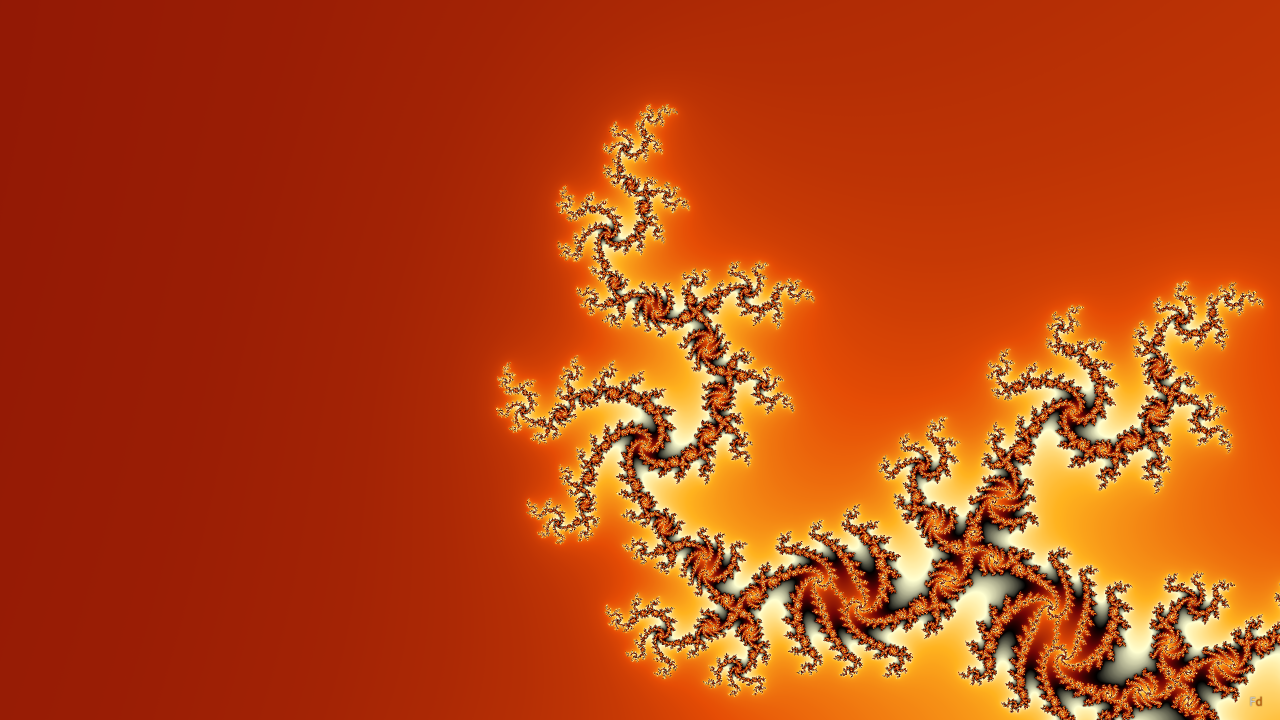
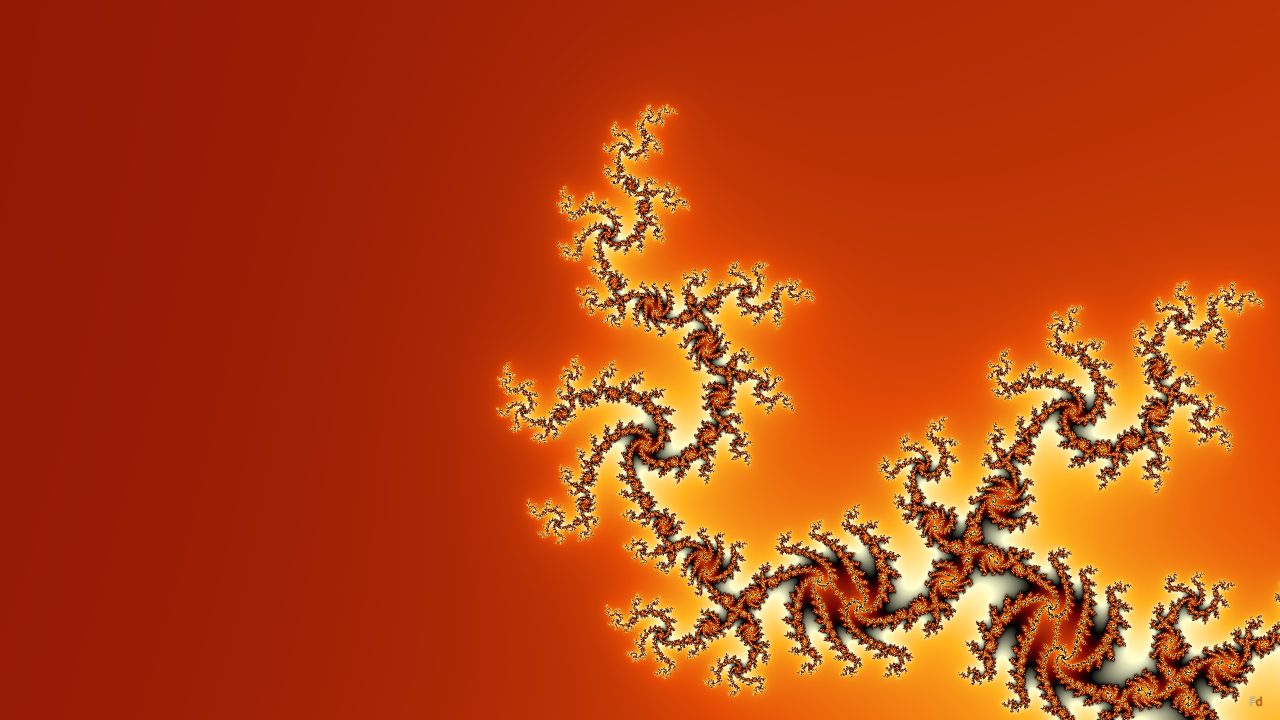
v0.2.18: BLA-landing rebase — fixes corpus 15's missing deep dendrites
Loc 15 (3.7e163x) rendered its right-side dendrites as smooth-orange where
Fraktaler-3 shows dense dark spirals. Those pixels escape at 928k-1.6M -- PAST
the reference orbit (~918k) -- so they must rebase at the reference's near-zero
orbit dips (|Z|~1e-71 every 4383 iters). The GPU's BLA-skip path (mandelbrot.wgsl
mode-2 loop) never checked for a Zhuoran rebase after a skip, on the assumption
"delta z stays small in the BLA regime => rebasing never triggers here". That
assumption FAILS when a skip lands on a dip: |Z_nref|~=0 => |zfull|~=|delta z|, so
the rebase condition |zfull| < |delta z| holds. Without the check the deep pixels
marched to the reference END and escaped prematurely there (measured GPU escape
range [885961, 918967], interior=0, where 918967 ~= the reference length).

Fix: after applying a BLA skip, compute zfull = Z_nref + delta z and rebase to
index 0 if |zfull| < |delta z| (mirrors the full-step rebase). Escape range
restored to [886019, 1599783], interior 70/57600; the dendrites render and match
F3. Loc 14 unchanged. Goldens 17/17 byte-identical + selftest 63/63 (the rebase
only fires at dip landings -- deep-interior views -- never on the normal goldens).

Diagnosis (disciplined, sim as oracle): ruled OUT the rebase magnitude precision
(a df32/sf_lt-faithful probe_fe variant still reached 1.29M -- the 24-bit compare
was not the bug), SA (off) and glitch (off in the export path), leaving BLA as the
[…]

Changed region(s): [[0.4062, 0.1833, 1.0, 1.0], [0.8125, 0.4278, 0.8438, 0.4889]]

diff --git a/validation/corpus/catalog.html b/validation/corpus/catalog.html
@@ -26,27 +26,25 @@ center / magnification / iteration cap for side-by-side structural comparison. F
 twenty) come from <code>generate_corpus.py</code>; the Fraktaler-3 side from <code>generate_fraktaler.py</code>.
 With <code>maximum_reference_iterations</code> set in each F3 param (see README &mdash; F3&rsquo;s batch
 default is far too low for a zoomed view and blanks silently, which long masqueraded as a ~1e13&times;
-ceiling), <strong>F3 renders deep correctly here</strong>: <strong>19 of 20</strong> locations have
-clean, arm-for-arm F3 counterparts, out to 4.60e1105&times; (over a thousand orders of magnitude)
-(location 15 is a known partial &mdash; see the note below). The
+ceiling), <strong>F3 renders deep correctly here</strong>: <strong>all 20</strong> locations have
+clean, arm-for-arm F3 counterparts, out to 4.60e1105&times; (over a thousand orders of magnitude). The
 former 1e30&times; gap (location 07, once a too-coarse 34-digit seahorse placeholder that F3 rounded onto
 different sub-structure) is now a genuine cross-app match, re-imported from a user Fraktaler-3 save with a
 43-digit center. Locations 07 and 11&ndash;20 are user-saved Fraktaler-3 finds (7.5e29&times; to
 1.2e1008&times;), imported from their .exr headers with center, zoom, and iteration count taken verbatim.
-<strong>Coloring note for 14 (1.2e148&times;):</strong> this long rendered as speckle and was
-mis-diagnosed as glitches, then a perturbation bug &mdash; both wrong. The escape VALUES are correct
-(a faithful CPU transcription of the mode-2 shader kernel reproduces them exactly); the problem is
-that its smooth-iter counts are huge (~3e5&ndash;8e5) and vary steeply, so the fixed palette cycle
-(0.27) aliases a correct field into speckle. Location 14&rsquo;s render uses <em>auto-normalized</em>
-coloring (the frame's escape range mapped to the palette) and then matches F3 arm-for-arm. The general
+<strong>Coloring note for 14 (1.2e148&times;) and 15 (3.7e163&times;):</strong> these long rendered as
+speckle and were mis-diagnosed as glitches, then a perturbation bug &mdash; both wrong. The escape
+VALUES are correct (a faithful CPU transcription of the mode-2 shader kernel reproduces them exactly);
+the problem is that their smooth-iter counts are huge (~3e5&ndash;1.6e6) and vary steeply, so the fixed
+palette cycle (0.27) aliases a correct field into speckle. Their renders use <em>auto-normalized</em>
+coloring (the frame's escape range mapped to the palette) and then match F3 arm-for-arm. The general
 fix &mdash; an adaptive-cycle coloring mode for extreme depth &mdash; is in TODO.md.
-<strong>Known limit at 15 (3.7e163&times;):</strong> the smooth bulb matches F3, but the right-side
-dendrites are MISSING (smooth-orange where F3 shows dense dark spirals). Those pixels escape at
-928k&ndash;1.6M &mdash; <em>past</em> the reference orbit (which escapes at ~918k) &mdash; so the GPU
-caps them at the reference&rsquo;s end (~919k) instead of rebasing deeper. The faithful CPU df32 sim
-recovers the dendrites with that same reference (by rebasing), so it is a GPU past-reference rebasing
-limitation, not coloring or iteration count; a longer reference would fix it but overflows the GPU
-128&nbsp;MB buffer-binding limit (~932k samples). Tracked in TODO.md &ldquo;Open bugs&rdquo;.</p>
+<strong>15 also needed a rendering fix (v0.2.18):</strong> its right-side dendrites escape at
+928k&ndash;1.6M &mdash; <em>past</em> the reference orbit (~918k) &mdash; so they must rebase at the
+reference&rsquo;s near-zero orbit dips. The GPU&rsquo;s BLA-skip path was skipping those dips without a
+rebase check (it assumed &delta;z stays small in the BLA regime, which fails where |Z|&asymp;0),
+marching the deep pixels to the reference end and capping them at ~919k so the dendrites vanished. A
+rebase check at the BLA landing restored the full range; goldens stayed byte-identical.</p>
 <p><strong>Reading the comparison:</strong> palettes and smooth-coloring curves differ between the apps by
 design &mdash; compare <em>structure</em> (feature placement, spiral arm counts, escape-boundary shape,
 minibrot positions), not colors. Framing note: Fractadyne&rsquo;s magnification is referenced to a
@@ -403,7 +401,7 @@ Iterations: 800000</pre>
 
 <section class="card" id="15-deep-3.7e163">
   <h2>Extreme depth 3.74e163x <span class="zoom">3.735181e163&times;</span></h2>
-  <p class="note">User-saved Fraktaler-3 location (me163.exr); 175-digit center. KNOWN PARTIAL at this depth: the smooth bulb (left) matches F3, but the right-side dendrites are MISSING (our render is smooth-orange where F3 shows dense dark spiral dendrites). Root cause (2026-07-12): those dendrite pixels escape at 928k-1.6M, PAST the reference orbit (which escapes at ~918k), so on the GPU they hit the reference's end and escape prematurely there (measured GPU escape range 886k-919k, interior=0) instead of rebasing deeper. The faithful CPU df32 sim reproduces the dendrites with that SAME ~918k reference (by rebasing to 1.6M), so the escape VALUES are computable in df32 -- it is a GPU past-reference rebasing limitation, NOT coloring and NOT iteration count (1.6M is enough). A longer/interior reference WOULD cover them but overflows the GPU max-buffer-binding limit (128MB / ~932k samples at 144 B/sample); the hill-climb finds a 1.54M interior ref that panics on bind. Unlike loc 14, whose deepest pixels escape WITHIN the reference and so render correctly. --normalize is still applied (helps the bulb). See TODO 'Open bugs' and loc 14's note.</p>
+  <p class="note">User-saved Fraktaler-3 location (me163.exr); 175-digit center. Renders CORRECTLY (matches F3): smooth bulb on the left, dense spiral dendrites on the right. FIXED v0.2.18 (BLA-landing rebase): the dendrite pixels escape at 928k-1.6M, PAST the reference orbit (~918k), so they must rebase at the reference's near-zero orbit dips; the GPU's BLA-skip path was skipping those dips without the Zhuoran rebase check (it assumed |delta z| stays small in the BLA regime, which fails at a dip where |Z|~=0), marching the deep pixels to the reference end and capping them at ~919k. Adding a rebase check at the BLA landing (mandelbrot.wgsl) restored the full escape range (measured 886k-1.6M, interior&gt;0). Diagnosed with a faithful CPU df32 sim (probe_fe) that reproduced the correct escape values with the same reference, isolating BLA as the divergence. Rendered with --normalize (escape range -&gt; palette). See TODO and loc 14's note.</p>
   <div class="pair">
     <figure>
       <img src="renders/15-deep-3.7e163-fractadyne.png" alt="Fractadyne render">

diff --git a/crates/fractadyne-core/tests/probe_fe.rs b/crates/fractadyne-core/tests/probe_fe.rs
@@ -20,6 +20,7 @@ trait Flt:
     fn maxv(self, o: Self) -> Self;
     fn ldx(self, e: i32) -> Self; // self * 2^e (exact power of two)
     fn flog2v(self) -> i32; // floor(log2(|self|)); very-negative for 0
+    fn sqrtv(self) -> Self; // sqrt at this precision (mirrors the shader's f32 sqrt)
 }
 impl Flt for f32 {
     fn cv(x: f64) -> f32 { x as f32 }
@@ -28,6 +29,7 @@ impl Flt for f32 {
     fn absv(self) -> f32 { self.abs() }
     fn maxv(self, o: f32) -> f32 { self.max(o) }
     fn ldx(self, e: i32) -> f32 { self * 2f32.powi(e) }
+    fn sqrtv(self) -> f32 { self.sqrt() }
     fn flog2v(self) -> i32 {
         let m = self.abs();
         if m == 0.0 || !m.is_finite() { return -1_000_000; }
@@ -52,6 +54,7 @@ impl Flt for f64 {
         if ef == 0 { return (m * 9_007_199_254_740_992.0).flog2v() - 53; } // subnormal -> *2^53
         ef - 1023
     }
+    fn sqrtv(self) -> f64 { self.sqrt() }
 }
 
 // GPU f32 with SUBNORMAL FLUSH (FTZ): most GPUs flush |x| < 2^-126 to zero on every op. IEEE
@@ -71,6 +74,7 @@ impl Flt for Ftz {
     fn maxv(self, o: Ftz) -> Ftz { Ftz(self.0.max(o.0)) }
     fn ldx(self, e: i32) -> Ftz { Ftz(ftz(self.0 * 2f32.powi(e))) }
     fn flog2v(self) -> i32 { self.0.flog2v() }
+    fn sqrtv(self) -> Ftz { Ftz(ftz(self.0.sqrt())) }
 }
 // GPU f32 with a NON-FUSED FMA: if the driver/compiler does not fuse `a*b+c` (or contracts it
 // wrong), two_prod's error term collapses to 0 and the df32 mul loses ~24 bits. Everything else
@@ -89,6 +93,7 @@ impl Flt for Nf {
     fn maxv(self, o: Nf) -> Nf { Nf(self.0.max(o.0)) }
     fn ldx(self, e: i32) -> Nf { Nf(self.0 * 2f32.powi(e)) }
     fn flog2v(self) -> i32 { self.0.flog2v() }
+    fn sqrtv(self) -> Nf { Nf(self.0.sqrt()) }
 }
 #[derive(Clone, Copy)]
 struct Df<F: Flt>(F, F);
@@ -157,6 +162,22 @@ fn flog2_fe<F: Flt>(a: Fe<F>) -> f64 {
     if mag == 0.0 { return f64::NEG_INFINITY; }
     mag.log2() + a.e as f64
 }
+// Shader-faithful |a| (mirrors `fe_abs_sf`): sqrt(re.hi² + im.hi²) as a SINGLE F (only ~24-bit
+// precision for f32), normalized to a (mantissa∈[1,2), exp) scalar floatexp. This is the crux of the
+// GPU/sim divergence — the sim's `flog2_fe` uses f64 (~52-bit), so it resolves `|zfull| < |dz|` at the
+// near-zero orbit dips where the 24-bit f32 magnitudes tie → the shader misses the rebase (corpus 15).
+fn abs_sf<F: Flt>(a: Fe<F>) -> (F, i32) {
+    let mag = (a.m.re.0 * a.m.re.0 + a.m.im.0 * a.m.im.0).sqrtv();
+    let sh = mag.flog2v();
+    if sh <= -1_000_000 { return (mag, FZE); }
+    (mag.ldx(-sh), a.e + sh)
+}
+// `sf_lt` for two normalized magnitudes: compare exponent, then mantissa at F precision (equivalent to
+// the shader's `sf_add(a,-b).m.x < 0` for mantissas already in [1,2)).
+fn sf_lt2<F: Flt>(a: (F, i32), b: (F, i32)) -> bool {
+    if a.1 != b.1 { return a.1 < b.1; }
+    a.0 < b.0
+}
 fn flo<F: Flt>(a: Fe<F>) -> (f64, f64) {
     let s = 2f64.powi(a.e.clamp(-127, 127));
     (a.m.re.0.f64v() * s, a.m.im.0.f64v() * s)
@@ -196,7 +217,8 @@ fn orbit_cdf_sim<F: Flt>(r: &[f32; 4]) -> Cd<F> {
 
 // One pixel's escape iteration via the faithful Fe kernel (Mandelbrot, no BLA/SA — BLA-off is
 // equally noisy, so plain perturbation reproduces it). `orbit` is the raw df32/ext samples.
-fn fe_escape<F: Flt>(orbit: &[[f32; 4]], len: usize, dcx: f64, dcy: f64, max_iter: u32) -> i64 {
+// `gpu_sf`: rebase decision as the SHADER does it (24-bit `abs_sf`/`sf_lt2`) vs the sim's f64 `flog2_fe`.
+fn fe_escape<F: Flt>(orbit: &[[f32; 4]], len: usize, dcx: f64, dcy: f64, max_iter: u32, gpu_sf: bool) -> i64 {
     let dc = fe_from::<F>(dcx, dcy);
     let mut dz = fzero::<F>();
     let mut ref_n = 0usize;
@@ -216,7 +238,12 @@ fn fe_escape<F: Flt>(orbit: &[[f32; 4]], len: usize, dcx: f64, dcy: f64, max_ite
         if zfx * zfx + zfy * zfy > 256.0 * 256.0 {
             return it as i64 + 1;
         }
-        if flog2_fe(zfull) < flog2_fe(dz) || ref_n + 1 >= len {
+        let rebase = if gpu_sf {
+            sf_lt2(abs_sf(zfull), abs_sf(dz))
+        } else {
+            flog2_fe(zfull) < flog2_fe(dz)
+        };
+        if rebase || ref_n + 1 >= len {
             dz = zfull; // fe_sub(zfull, Z0=0) for Mandelbrot
             ref_n = 0;
         }
@@ -254,26 +281,30 @@ fn probe_row_fe() {
     // Reference offset from the view centre (complex units), so each row pixel's dc = (pixel_c - ref).
     let rox = fractadyne_core::sub_f64(&refpt[0], &center[0], prec);
     let roy = fractadyne_core::sub_f64(&refpt[1], &center[1], prec);
-    let (mut r32, mut rftz, mut rnf, mut r64) = (Vec::new(), Vec::new(), Vec::new(), Vec::new());
+    // df32 with the SHADER's 24-bit sf-rebase (= the GPU) vs df32 with the sim's f64-rebase vs df64 truth.
+    let (mut r32g, mut r32f, mut r64) = (Vec::new(), Vec::new(), Vec::new());
     for i in 0..npix {
         let off = i as f64 - (npix as f64 - 1.0) / 2.0;
         let dcx = step * off - rox;
         let dcy = -roy;
-        r32.push(fe_escape::<f32>(&orbit, len, dcx, dcy, max_iter));
-        rftz.push(fe_escape::<Ftz>(&orbit, len, dcx, dcy, max_iter));
-        rnf.push(fe_escape::<Nf>(&orbit, len, dcx, dcy, max_iter));
-        r64.push(fe_escape::<f64>(&orbit, len, dcx, dcy, max_iter));
+        r32g.push(fe_escape::<f32>(&orbit, len, dcx, dcy, max_iter, true));
+        r32f.push(fe_escape::<f32>(&orbit, len, dcx, dcy, max_iter, false));
+        r64.push(fe_escape::<f64>(&orbit, len, dcx, dcy, max_iter, false));
     }
-    // Jump count among ESCAPED px only (interior = -1), matching FEDUMP.
-    let jumpn = |r: &[i64]| {
+    // Jump count + max escape among ESCAPED px only (interior = -1), matching FEDUMP.
+    let stats = |r: &[i64]| -> (usize, i64) {
         let e: Vec<i64> = r.iter().copied().filter(|&v| v >= 0).collect();
-        e.windows(2).filter(|w| (w[0] - w[1]).abs() > 2000).count()
+        let jumps = e.windows(2).filter(|w| (w[0] - w[1]).abs() > 2000).count();
+        (jumps, e.iter().copied().max().unwrap_or(-1))
     };
-    let stride: Vec<i64> = r32.iter().step_by(8).copied().collect();
+    let (jg, mg) = stats(&r32g);
+    let (jf, mf) = stats(&r32f);
+    let (j6, m6) = stats(&r64);
+    let stride: Vec<i64> = r32g.iter().step_by(8).copied().collect();
     println!("[fe] {label}: reference len={len}");
-    println!("[fe] {label}: df32 every-8th: {stride:?}");
+    println!("[fe] {label}: df32-GPUsf every-8th: {stride:?}");
     println!(
-        "[fe] {label}: jumps>2000 (escaped) -- df32-IEEE={}  df32-FTZ={}  df32-NoFMA={}  df64={}  (compare to [fedump] jumps)",
-        jumpn(&r32), jumpn(&rftz), jumpn(&rnf), jumpn(&r64)
+        "[fe] {label}: jumps>2000 / max-escape -- df32-GPUsf(24bit)={jg}/{mg}  df32-f64rebase={jf}/{mf}  df64={j6}/{m6}"
     );
+    println!("[fe] {label}: EXPECT if the 24-bit rebase is the bug: GPUsf max-escape caps near the ref len ({len}) while f64-rebase reaches ~max_iter.");
 }

diff --git a/validation/corpus/generate_corpus.py b/validation/corpus/generate_corpus.py
@@ -246,27 +246,25 @@ center / magnification / iteration cap for side-by-side structural comparison. F
 twenty) come from <code>generate_corpus.py</code>; the Fraktaler-3 side from <code>generate_fraktaler.py</code>.
 With <code>maximum_reference_iterations</code> set in each F3 param (see README &mdash; F3&rsquo;s batch
 default is far too low for a zoomed view and blanks silently, which long masqueraded as a ~1e13&times;
-ceiling), <strong>F3 renders deep correctly here</strong>: <strong>19 of 20</strong> locations have
-clean, arm-for-arm F3 counterparts, out to 4.60e1105&times; (over a thousand orders of magnitude)
-(location 15 is a known partial &mdash; see the note below). The
+ceiling), <strong>F3 renders deep correctly here</strong>: <strong>all 20</strong> locations have
+clean, arm-for-arm F3 counterparts, out to 4.60e1105&times; (over a thousand orders of magnitude). The
 former 1e30&times; gap (location 07, once a too-coarse 34-digit seahorse placeholder that F3 rounded onto
 different sub-structure) is now a genuine cross-app match, re-imported from a user Fraktaler-3 save with a
 43-digit center. Locations 07 and 11&ndash;20 are user-saved Fraktaler-3 finds (7.5e29&times; to
 1.2e1008&times;), imported from their .exr headers with center, zoom, and iteration count taken verbatim.
-<strong>Coloring note for 14 (1.2e148&times;):</strong> this long rendered as speckle and was
-mis-diagnosed as glitches, then a perturbation bug &mdash; both wrong. The escape VALUES are correct
-(a faithful CPU transcription of the mode-2 shader kernel reproduces them exactly); the problem is
-that its smooth-iter counts are huge (~3e5&ndash;8e5) and vary steeply, so the fixed palette cycle
-(0.27) aliases a correct field into speckle. Location 14&rsquo;s render uses <em>auto-normalized</em>
-coloring (the frame's escape range mapped to the palette) and then matches F3 arm-for-arm. The general
+<strong>Coloring note for 14 (1.2e148&times;) and 15 (3.7e163&times;):</strong> these long rendered as
+speckle and were mis-diagnosed as glitches, then a perturbation bug &mdash; both wrong. The escape
+VALUES are correct (a faithful CPU transcription of the mode-2 shader kernel reproduces them exactly);
+the problem is that their smooth-iter counts are huge (~3e5&ndash;1.6e6) and vary steeply, so the fixed
+palette cycle (0.27) aliases a correct field into speckle. Their renders use <em>auto-normalized</em>
+coloring (the frame's escape range mapped to the palette) and then match F3 arm-for-arm. The general
 fix &mdash; an adaptive-cycle coloring mode for extreme depth &mdash; is in TODO.md.
-<strong>Known limit at 15 (3.7e163&times;):</strong> the smooth bulb matches F3, but the right-side
-dendrites are MISSING (smooth-orange where F3 shows dense dark spirals). Those pixels escape at
-928k&ndash;1.6M &mdash; <em>past</em> the reference orbit (which escapes at ~918k) &mdash; so the GPU
-caps them at the reference&rsquo;s end (~919k) instead of rebasing deeper. The faithful CPU df32 sim
-recovers the dendrites with that same reference (by rebasing), so it is a GPU past-reference rebasing
-limitation, not coloring or iteration count; a longer reference would fix it but overflows the GPU
-128&nbsp;MB buffer-binding limit (~932k samples). Tracked in TODO.md &ldquo;Open bugs&rdquo;.</p>
+<strong>15 also needed a rendering fix (v0.2.18):</strong> its right-side dendrites escape at
+928k&ndash;1.6M &mdash; <em>past</em> the reference orbit (~918k) &mdash; so they must rebase at the
+reference&rsquo;s near-zero orbit dips. The GPU&rsquo;s BLA-skip path was skipping those dips without a
+rebase check (it assumed &delta;z stays small in the BLA regime, which fails where |Z|&asymp;0),
+marching the deep pixels to the reference end and capping them at ~919k so the dendrites vanished. A
+rebase check at the BLA landing restored the full range; goldens stayed byte-identical.</p>
 <p><strong>Reading the comparison:</strong> palettes and smooth-coloring curves differ between the apps by
 design &mdash; compare <em>structure</em> (feature placement, spiral arm counts, escape-boundary shape,
 minibrot positions), not colors. Framing note: Fractadyne&rsquo;s magnification is referenced to a

diff --git a/TODO.md b/TODO.md
@@ -87,28 +87,27 @@ Mockups: [design/mockups/](design/mockups/).
   df32/FTZ/NoFMA sims all smooth).** My earlier `cycle=2e-6` "coloring ruled out" step was WRONG — I
   sampled a smooth transition row (not the steep dendrite region) and mis-read aliased-gradient moiré as
   random noise. LESSON: dump the raw escape VALUES before blaming the perturbation. Probes
-  (`probe_escape.rs`, `probe_fe.rs`) + FEDUMP are the harness. ⚠**CORRECTION (2026-07-12): the
-  "F3 arm-for-arm at 15" claim above was WRONG for loc 15 — see the next bug.**
+  (`probe_escape.rs`, `probe_fe.rs`) + FEDUMP are the harness.
 
-- [ ] **⭐KNOWN PARTIAL: corpus 15 (3.7e163×) deep dendrites MISSING — GPU past-reference rebasing
-  (diagnosed 2026-07-12, NOT yet fixed).** Unlike 14 (pure coloring), loc 15 has a REAL render gap: the
-  smooth bulb (left) matches F3, but the right-side dendrites are absent (smooth-orange where F3 shows
-  dense dark spirals). **Root cause:** those dendrite pixels escape at 928k–1.6M — PAST the reference
-  orbit, which escapes at ~918k. On the GPU they reach the reference's END and escape prematurely there
-  (measured full-frame GPU escape range **[885961, 918967], interior px = 0** — note 918967 ≈ the ref
-  length), instead of rebasing deeper. **The faithful CPU df32 sim (`probe_fe`) reproduces the dendrites
-  up to ~1.6M using that SAME ~918k reference** (via `|z|<|dz|` rebasing that stays at low `ref_n`) — 71
-  escape-jumps, matching f64 — so the escape VALUES ARE computable in df32; this is a GPU rebasing
-  limitation at extreme depth, **not coloring and not iteration count** (`iter=1600000` is used and is
-  enough). **The `best_reference` hill-climb (find a longer/interior reference) is a DEAD END here:** it
-  finds a 1.54M-sample interior ref, but that overflows the GPU `max_buffer_binding_size` (128 MB /
-  ~932k samples at 144 B/sample) → `create_bind_group` validation panic. So a longer reference cannot
-  fit; the fix must live in the GPU's **past-reference rebasing** (a v0.2.6-class shader-numerics task —
-  reproduce the divergence by making the sim's rebase decision df32/`sf_lt`-faithful, then correct the
-  shader so the deep pixels rebase like the sim instead of escaping at the reference end). Loc 14's
-  deepest pixels escape WITHIN the reference, so 14 is unaffected. **Also latent (separate defensive
-  fix):** if `best_reference` ever returns an interior reference surviving >932k iters at export
-  (`max_iter` > that), the orbit build → bind will panic; cap the orbit at the buffer limit.
+- [x] **✅FIXED v0.2.18: corpus 15 (3.7e163×) deep dendrites — BLA-skip missed the rebase at orbit
+  dips.** Loc 15's right-side dendrites were MISSING (smooth-orange where F3 shows dense dark spirals):
+  those pixels escape at 928k–1.6M — PAST the reference orbit (~918k) — so they must rebase at the
+  reference's near-zero orbit dips (|Z|≈1e-71 every 4383 iters). **Root cause: the GPU's BLA-skip path
+  (`mandelbrot.wgsl`, mode-2 loop) never checked for a Zhuoran rebase after a skip** — it assumed
+  "δz stays small in the BLA regime ⇒ rebasing never triggers here", which FAILS when a skip lands on a
+  dip: |Z_nref|≈0 ⇒ |zfull|≈|δz| ⇒ the rebase condition `|zfull|<|δz|` holds. Without the check the deep
+  pixels marched to the reference END and escaped prematurely there (measured GPU range **[885961,
+  918967], interior=0**, 918967 ≈ the ref length). **Fix = a rebase check at the BLA landing** (mirrors
+  the full-step rebase): after applying a skip, `zfull = Z_nref + δz`; if `|zfull| < |δz|`, rebase to
+  index 0. Range restored to **[886019, 1599783], interior 70/57600**; the dendrites render, matching F3.
+  **Goldens 17/17 byte-identical + selftest 63/63** (the rebase only fires at dip landings — deep-interior
+  views — never on the shallow/normal goldens). ⚠**How it was found (disciplined):** ruled OUT the rebase
+  magnitude precision (a df32/`sf_lt`-faithful `probe_fe` variant still reached 1.29M — the 24-bit
+  comparison was NOT the bug), then SA (off), glitch (off in the export path), leaving BLA as the only
+  difference from the correct CPU sim → read the BLA-skip code and found the missing rebase. The
+  `best_reference` hill-climb (longer reference) was a DEAD END: the 1.54M interior ref overflows the GPU
+  `max_buffer_binding_size` (128 MB / ~932k samples at 144 B/sample) → `create_bind_group` panic — that
+  latent export panic (interior ref >932k) is still worth a defensive orbit-length cap.
 
 - [~] **App: auto-normalize / adaptive-cycle coloring for extreme depth (the general fix behind
   14/15).** `shade()` (mandelbrot.wgsl:1277) does `palette(pv·cycle + offset)` with `pv` = the raw

diff --git a/validation/report.md b/validation/report.md
@@ -1,7 +1,7 @@
 # Fractadyne validation report
 
-- **Version:** 0.2.9 (build 851)
-- **Generated:** 2026-07-11 14:34:11 UTC (unix 1783780451)
+- **Version:** 0.2.18 (build 899)
+- **Generated:** 2026-07-13 00:39:36 UTC (unix 1783903176)
 - **GPU:** NVIDIA GeForce RTX 3080
 - **CPU:** AMD Ryzen 9 3950X 16-Core Processor (16 cores / 32 threads, L2 8192 KB, L3 65536 KB)
 - **OS:** windows / x86_64
